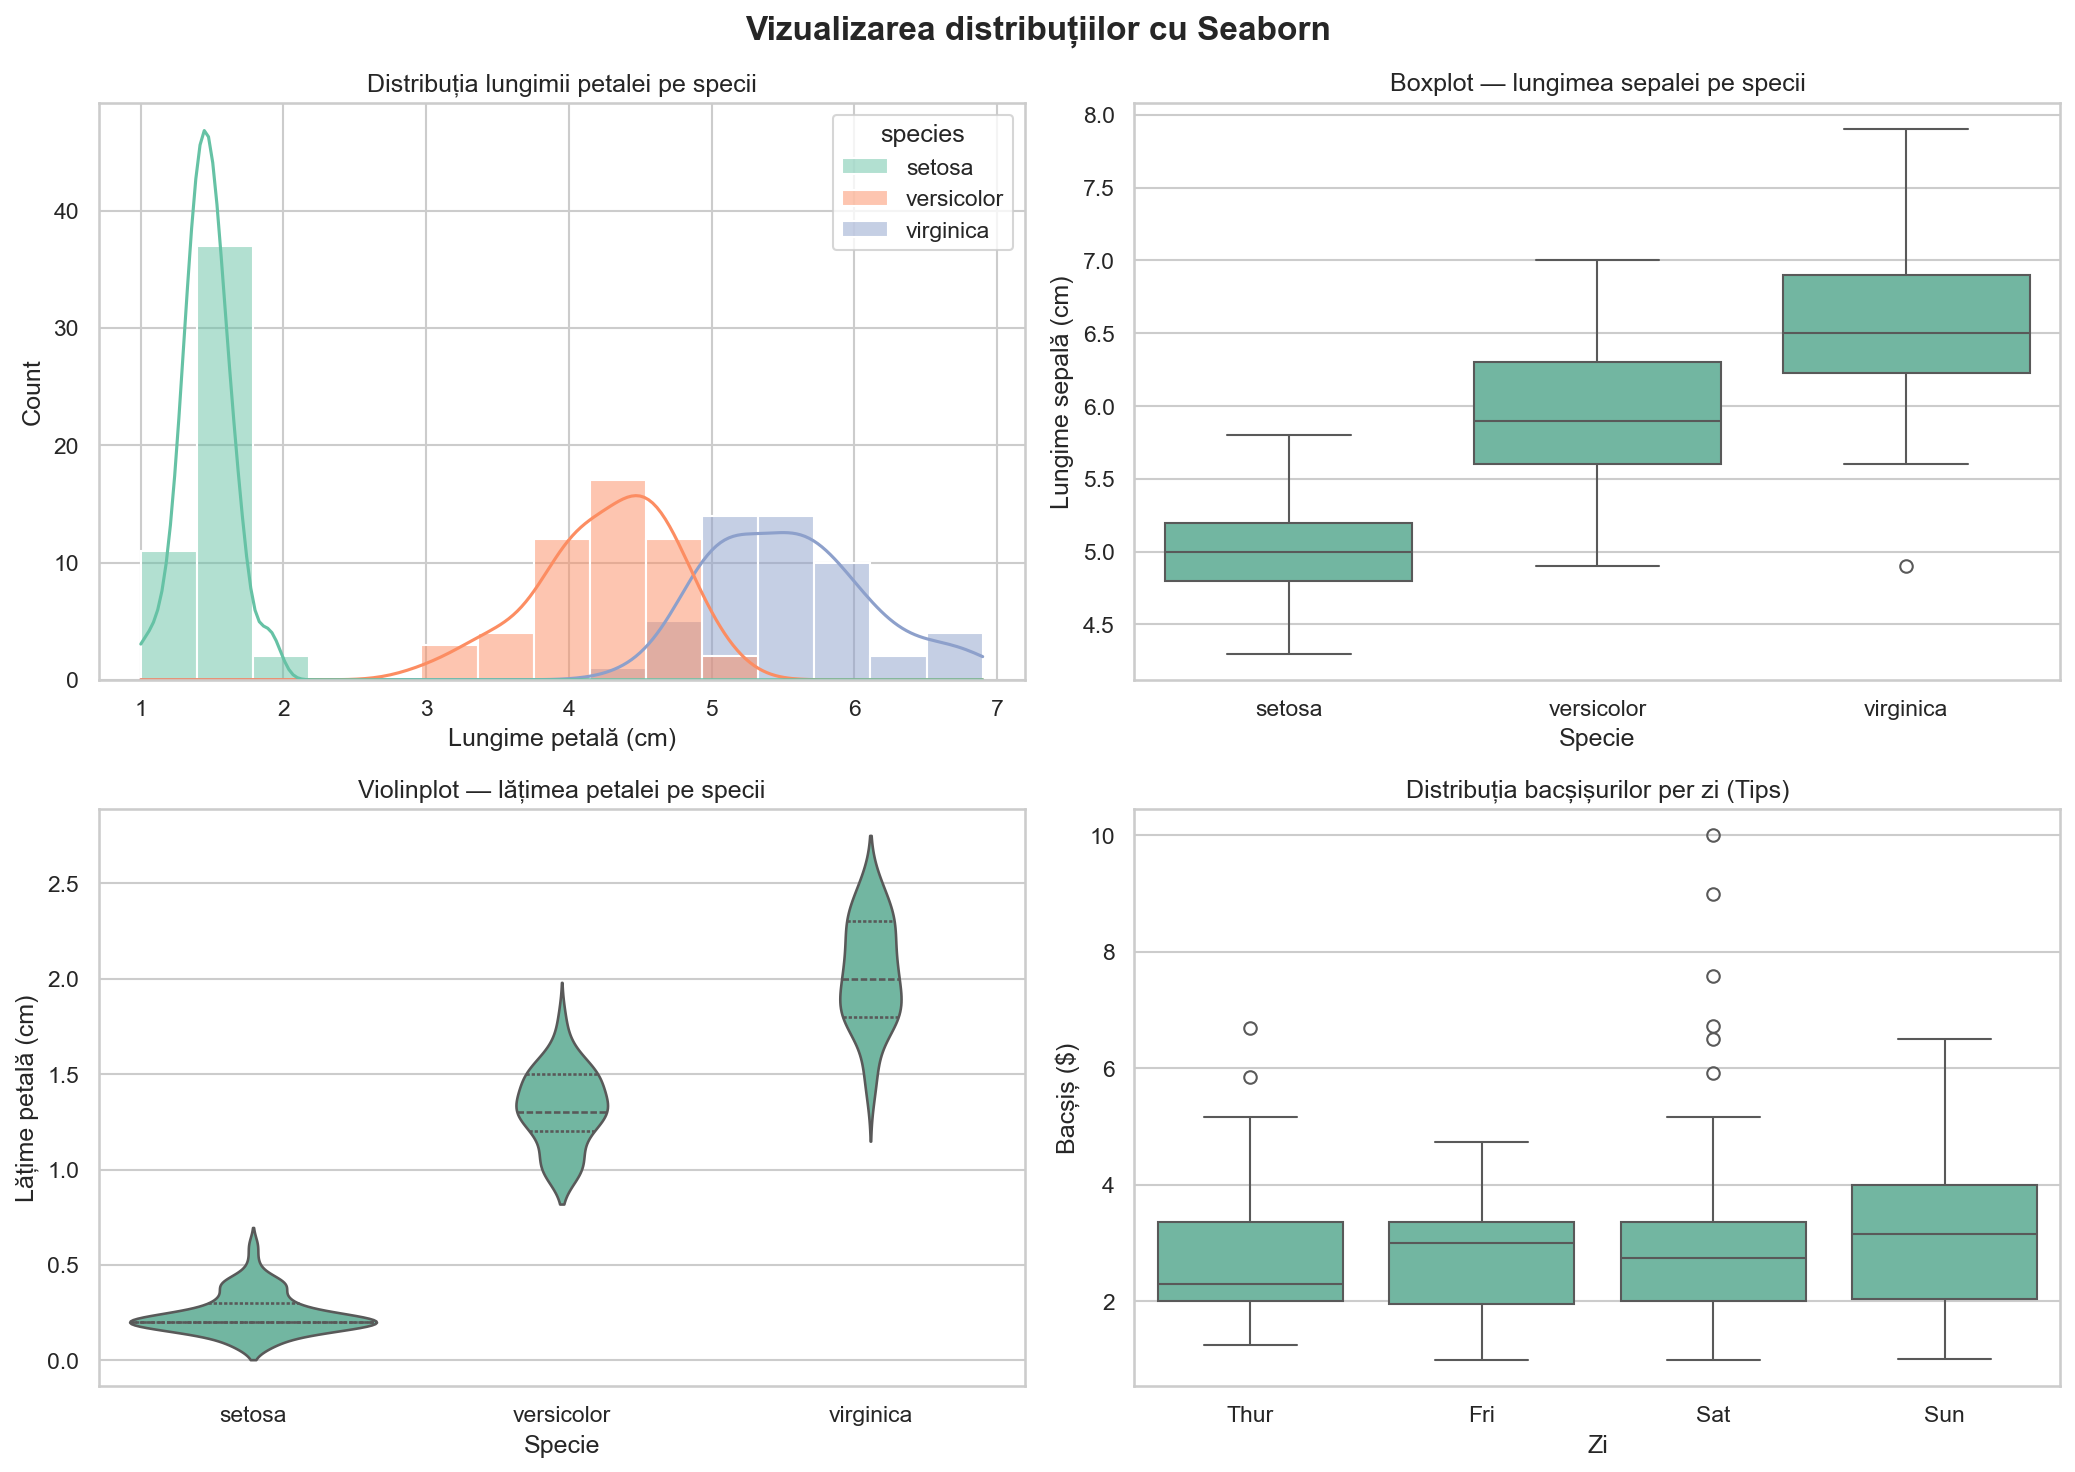
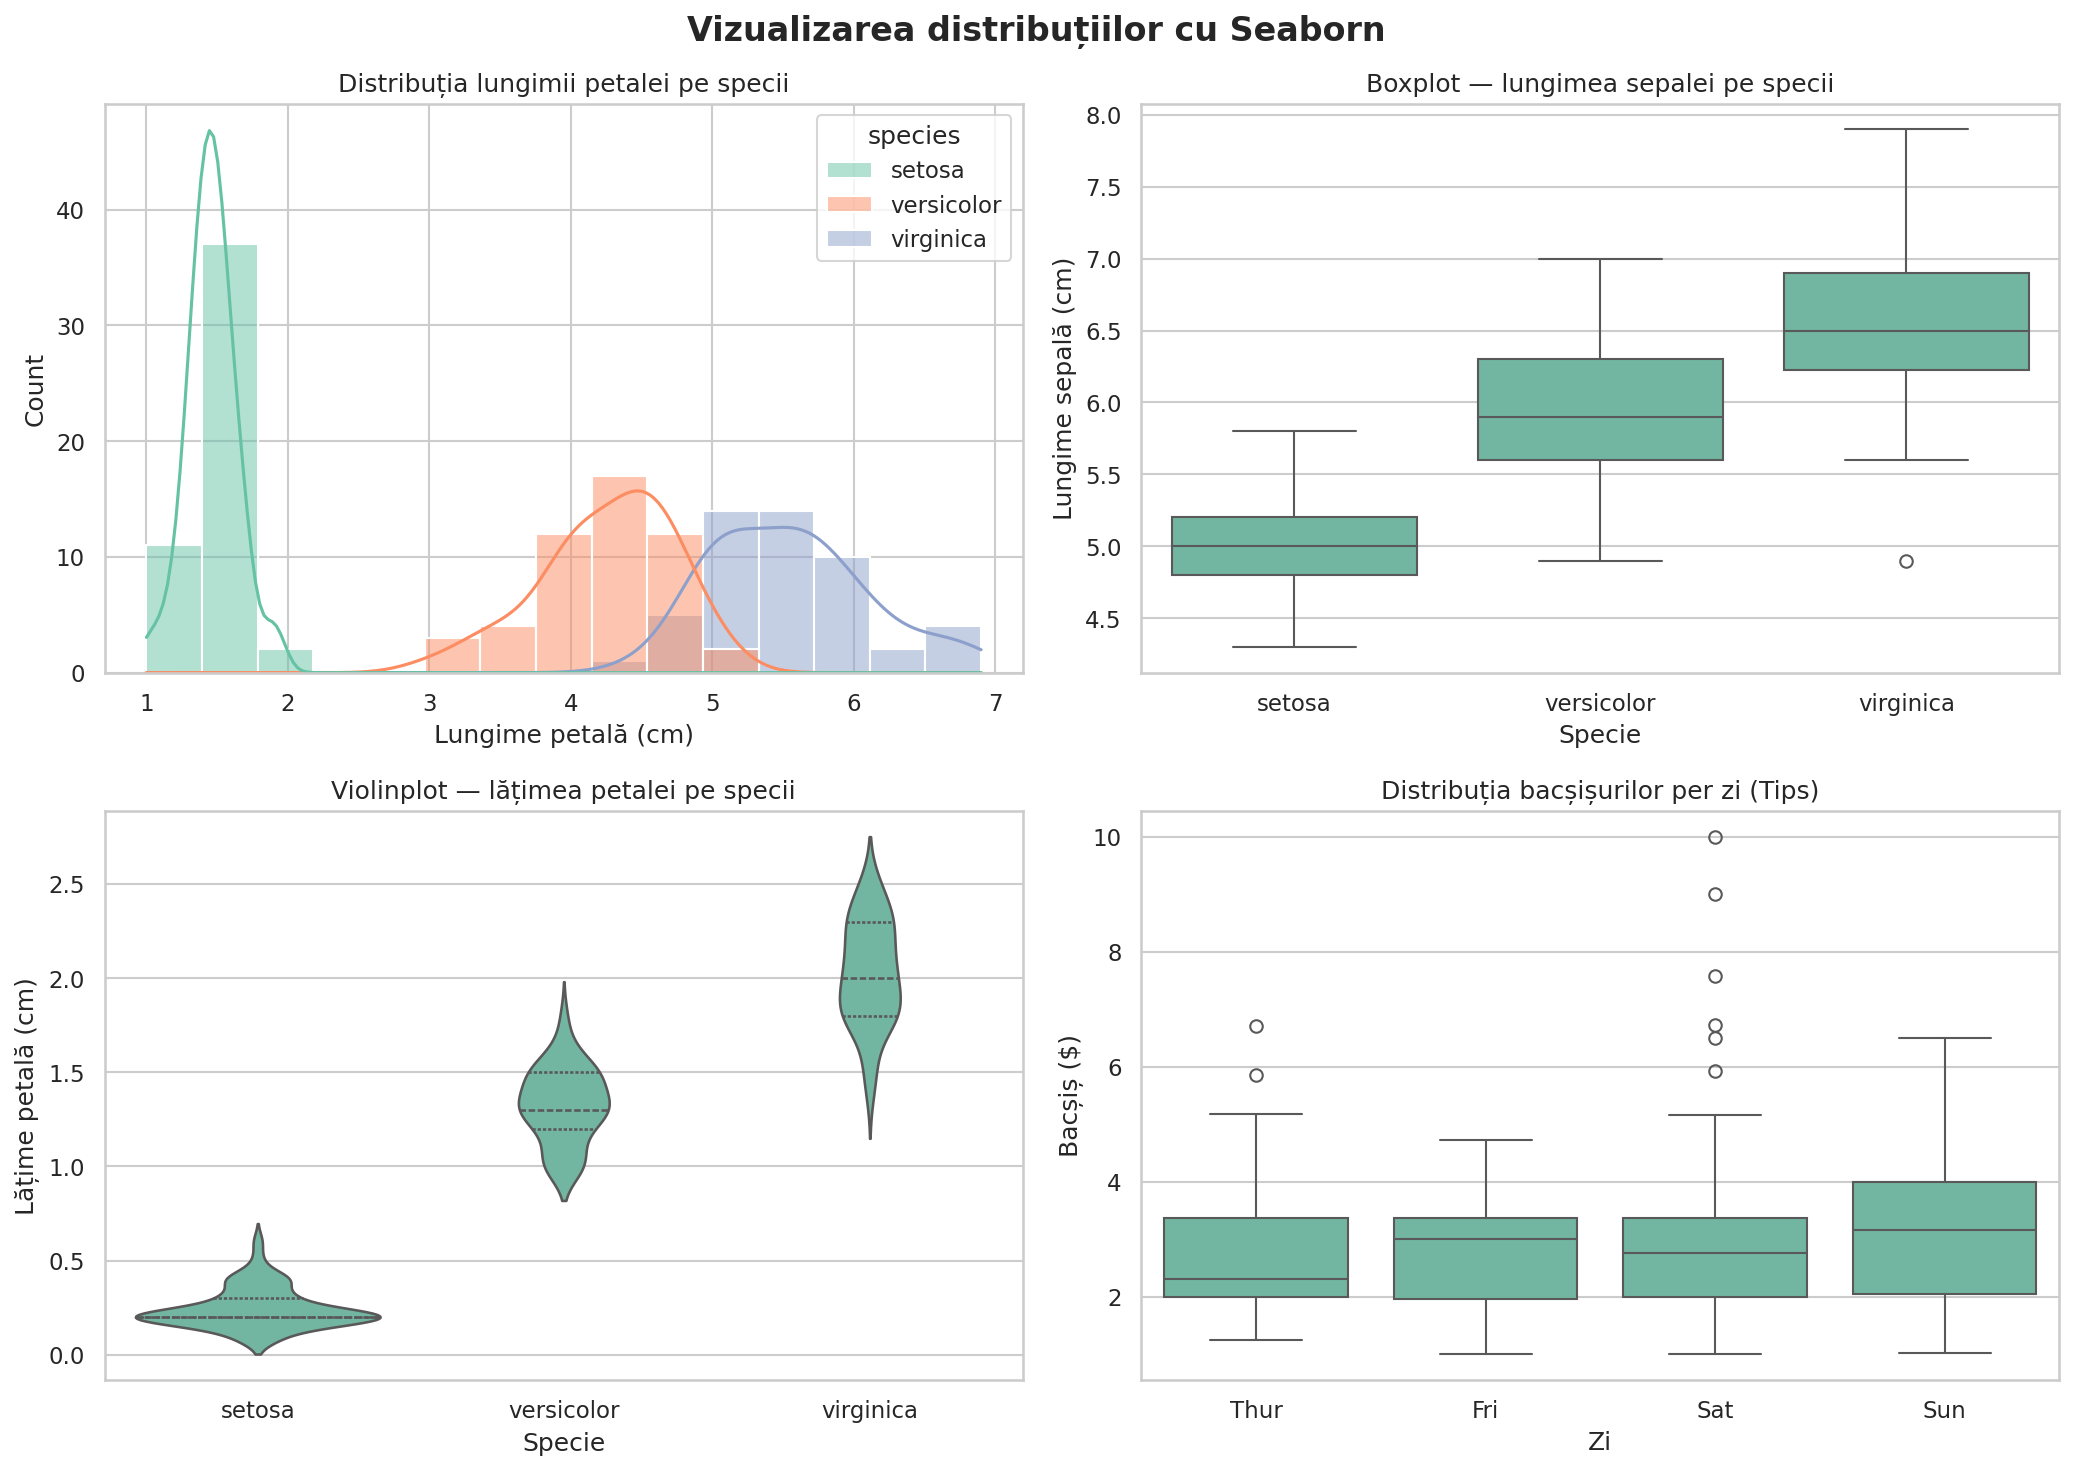
Tema C and D

diff --git a/tema/tema_c_dashboard.py b/tema/tema_c_dashboard.py
@@ -1,0 +1,48 @@
+import matplotlib.pyplot as plt
+import seaborn as sns
+
+
+if __name__ == '__main__':
+    tips = sns.load_dataset('tips')
+    fig, axes = plt.subplots(2, 2, figsize=(12, 10))
+
+    culori = {'Male': '#3498db', 'Female': '#e74c3c'}
+
+    for sex, culoare in culori.items():
+        subset = tips[tips['sex'] == sex]
+        axes[0, 0].scatter(subset['total_bill'], subset['tip'],
+        label=sex, color=culoare, alpha=0.7, s=50)
+    #Scatter
+    axes[0, 0].set_title('Scatter')
+    axes[0, 0].set_xlabel('tip')
+    axes[0, 0].set_ylabel('total_bill')
+    axes[0, 0].grid(True, alpha=0.3)
+
+
+
+    sns.boxplot(data=tips, x='day', y='total_bill', ax=axes[0, 1])
+    axes[1, 0].set_title('Total bill over days')
+    axes[1, 0].set_xlabel('Day')
+
+
+    sns.histplot(data=tips, x='tip', hue='time',
+                 kde=True, bins=15, ax=axes[1, 0])
+    axes[1, 0].set_title('Distributia tipsurilor')
+    axes[1, 0].set_xlabel('Tips')
+
+
+
+    medie_per_zi = tips.groupby('day').mean(numeric_only=True)['tip']
+    axes[1, 1].bar(medie_per_zi.index, medie_per_zi.values,
+                  color=['#e74c3c', '#3498db', '#2ecc71','#a73c4c'], edgecolor='black',
+                  alpha=0.8)
+
+    axes[1, 1].set_title('Barplot')
+    axes[1, 1].set_xlabel('Ziua')
+    axes[1, 1].set_ylabel('Bacsisul mediu')
+    
+    
+    
+    plt.tight_layout()
+    plt.savefig('TemaC.png', dpi=150, bbox_inches='tight')
+    plt.show()

diff --git a/tema/tema_d_bonus_iris.py b/tema/tema_d_bonus_iris.py
@@ -1,0 +1,27 @@
+import matplotlib.pyplot as plt
+import seaborn as sns
+
+
+if __name__ == '__main__':
+    iris = sns.load_dataset('iris')
+    sns.pairplot(iris, hue='species', diag_kind='kde')
+    plt.suptitle('Dataset', y=1.02)
+    plt.savefig('TemaDPart1.png', dpi=150, bbox_inches='tight')
+    fig, axes = plt.subplots(2, 2, figsize=(12, 10))
+
+    sns.violinplot(data=iris, x='species', y='sepal_length', ax=axes[0,0],hue='species', split=False)
+    axes[0,0].set_title('Violinplot — lungimea petalei')
+
+    sns.violinplot(data=iris, x='species', y='sepal_width', ax=axes[0,1],hue='species', split=False)
+    axes[0,1].set_title('Violinplot — lungimea petalei')
+
+    sns.violinplot(data=iris, x='species', y='petal_length', ax=axes[1,0],hue='species', split=False)
+    axes[1,0].set_title('Violinplot — lungimea petalei')
+
+    sns.violinplot(data=iris, x='species', y='petal_width', ax=axes[1,1],hue='species', split=False)
+    axes[1,1].set_title('Violinplot — lungimea petalei')
+
+    plt.tight_layout()
+    plt.savefig('TemaDPart1.png', dpi=150, bbox_inches='tight')
+
+    plt.show()

diff --git a/cerinta_3_4_seaborn.py b/cerinta_3_4_seaborn.py
@@ -11,6 +11,7 @@ sns.histplot(data=iris, x='petal_length', hue='species',
 kde=True, bins=15, ax=axes[0, 0])
 axes[0, 0].set_title('Distribuția lungimii petalei pe specii')
 axes[0, 0].set_xlabel('Lungime petală (cm)')
+
 # --- Subplot 2: Boxplot — lungimea sepalei per specie (Iris) ---
 sns.boxplot(data=iris, x='species', y='sepal_length', ax=axes[0, 1])
 axes[0, 1].set_title('Boxplot — lungimea sepalei pe specii')

diff --git a/cerinta_3_5_heatmap.py b/cerinta_3_5_heatmap.py
@@ -19,7 +19,7 @@ mask=mask, # afișăm doar triunghiul inferior + diagonala
 annot=True, # afișăm valorile în celule
 fmt='.2f', # format cu 2 zecimale
 cmap='RdYlGn', # roșu (negativ) → galben (zero) → verde
-vmin=-1, vmax=1, # fixăm scala la [-1, +1]
+vmin=-1, vmax=1, # fixăm spcala la [-1, +1]
 square=True, # celule pătrate
 linewidths=0.8,
 cbar_kws={'label': 'Coeficient Pearson'},ax=ax)

diff --git a/cerinta_3_3_matplotlib.py b/cerinta_3_3_matplotlib.py
@@ -13,6 +13,9 @@ axes[0, 0].set_title('Media lungimii sepalei per specie')
 axes[0, 0].set_xlabel('Specie')
 axes[0, 0].set_ylabel('Lungime sepală (cm)')
 axes[0, 0].grid(True, alpha=0.3)
+
+
+
 # --- Subplot 2: Scatter — lungime vs. lățime petală, colorat per specie ---
 culori = {'setosa': '#e74c3c', 'versicolor': '#3498db', 'virginica': '#2ecc71'}
 for specie, culoare in culori.items():
